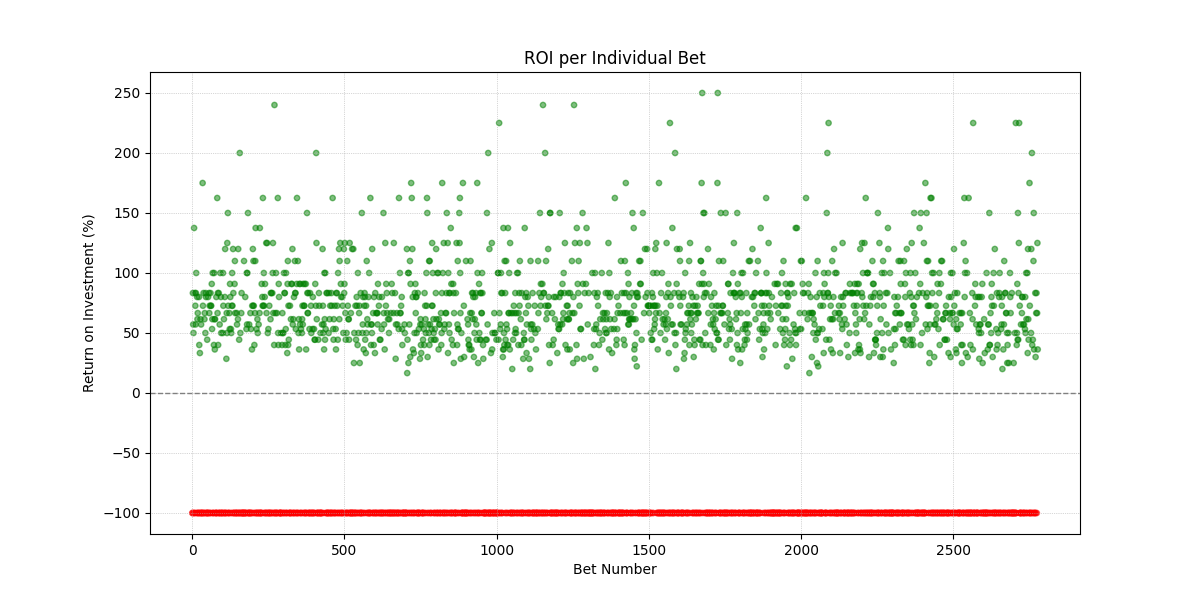
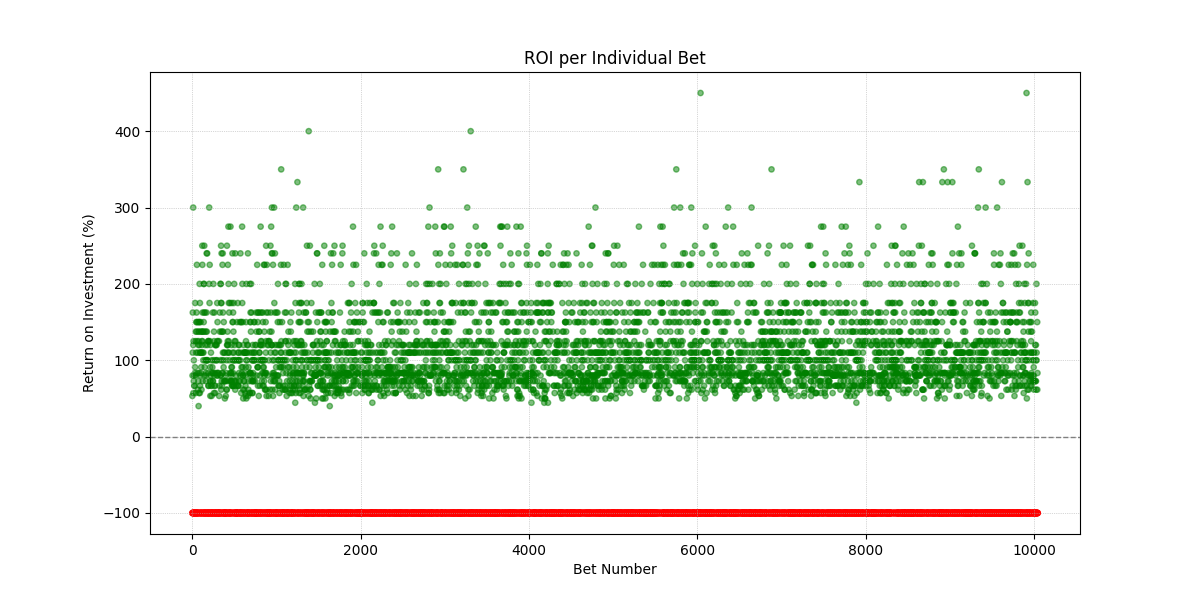
4x data expansion: ROI improved from -7.13% to -3.02%
- Used V8.0's larger data files (97K matches + 14.5M odds records)
- Pipeline now processes 60,777 usable matches (was 10,983)
- Test set expanded to 16,524 matches (was 3,295)
- Max drawdown reduced from 97.58% to 77.05%
- Added feature correlation audit script

Changes:
- advanced_feature_engineering_v7.4.py: Point to local 97K match file
- merge_data_v7.4.py: Changed from append to write mode

🤖 Generated with [Claude Code](https://claude.com/claude-code)

diff --git a/FINAL_BUILD/feature_correlation_audit.py b/FINAL_BUILD/feature_correlation_audit.py
@@ -1,0 +1,141 @@
+"""
+Feature Correlation Audit for CPR Model v9.1
+
+Identifies highly correlated features (|r| > 0.7) that may be candidates for removal.
+This helps reduce filter bloat and potential multicollinearity issues.
+"""
+import pandas as pd
+import numpy as np
+
+# --- Configuration ---
+TRAINING_FILE = "training_dataset.csv"
+CORRELATION_THRESHOLD = 0.7
+
+# 19 GBM features from cpr_v7.4_specialist_gbm_trainer.py
+GBM_FEATURES = [
+    # Original features
+    'Time_Since_Last_Advantage', 'Matches_Last_24H_Advantage', 'Is_First_Match_Advantage',
+    'PDR_Slope_Advantage', 'H2H_P1_Win_Rate', 'H2H_Dominance_Score', 'PDR_Advantage',
+    'Win_Rate_Advantage', 'Win_Rate_L5_Advantage', 'Close_Set_Win_Rate_Advantage', 'Set_Comebacks_Advantage',
+    # New v7.4 features
+    'Elo_Diff',
+    'Glicko_Mu_Diff',
+    'Glicko_Phi_Sum',
+    'Clutch_Factor_Diff',
+    'Pythagorean_Delta_Diff',
+    'Fatigue_Factor_Diff',
+    'PDR_Variance_Diff',
+    'H2H_Matches',
+]
+
+def main():
+    print("--- Feature Correlation Audit v9.1 ---\n")
+
+    try:
+        df = pd.read_csv(TRAINING_FILE)
+        print(f"Loaded {len(df)} rows from {TRAINING_FILE}")
+    except FileNotFoundError:
+        print(f"Error: {TRAINING_FILE} not found. Run the pipeline first.")
+        return
+
+    # Filter to only existing GBM features
+    existing_features = [f for f in GBM_FEATURES if f in df.columns]
+    missing_features = [f for f in GBM_FEATURES if f not in df.columns]
+
+    if missing_features:
+        print(f"\nWarning: Missing features: {missing_features}")
+
+    print(f"\nAnalyzing {len(existing_features)} features...\n")
+
+    # Compute correlation matrix
+    corr_matrix = df[existing_features].corr()
+
+    # Identify highly correlated pairs
+    high_corr_pairs = []
+    for i, col1 in enumerate(existing_features):
+        for j, col2 in enumerate(existing_features):
+            if i < j:  # Only check upper triangle
+                corr = corr_matrix.loc[col1, col2]
+                if abs(corr) > CORRELATION_THRESHOLD:
+                    high_corr_pairs.append((col1, col2, corr))
+
+    # Sort by absolute correlation
+    high_corr_pairs.sort(key=lambda x: abs(x[2]), reverse=True)
+
+    # Print results
+    print(f"=== Highly Correlated Feature Pairs (|r| > {CORRELATION_THRESHOLD}) ===\n")
+
+    if not high_corr_pairs:
+        print("No highly correlated feature pairs found.")
+    else:
+        print(f"{'Feature 1':<35} {'Feature 2':<35} {'Correlation':>12}")
+        print("-" * 85)
+        for col1, col2, corr in high_corr_pairs:
+            print(f"{col1:<35} {col2:<35} {corr:>12.4f}")
+
+    print(f"\n=== Correlation Summary Statistics ===\n")
+
+    # Get all pairwise correlations (excluding diagonal)
+    mask = np.triu(np.ones_like(corr_matrix, dtype=bool), k=1)
+    all_corrs = corr_matrix.where(mask).stack()
+
+    print(f"Mean absolute correlation: {all_corrs.abs().mean():.4f}")
+    print(f"Max absolute correlation:  {all_corrs.abs().max():.4f}")
+    print(f"Pairs with |r| > 0.5:      {(all_corrs.abs() > 0.5).sum()}")
+    print(f"Pairs with |r| > 0.7:      {(all_corrs.abs() > 0.7).sum()}")
+    print(f"Pairs with |r| > 0.9:      {(all_corrs.abs() > 0.9).sum()}")
+
+    # Feature variance check (near-constant features)
+    print(f"\n=== Feature Variance Check (potential near-constant features) ===\n")
+    variances = df[existing_features].var()
+    low_var_features = variances[variances < 0.001].sort_values()
+
+    if len(low_var_features) > 0:
+        print(f"{'Feature':<40} {'Variance':>12}")
+        print("-" * 55)
+        for feat, var in low_var_features.items():
+            print(f"{feat:<40} {var:>12.6f}")
+    else:
+        print("No low-variance features found.")
+
+    # Recommendations
+    print(f"\n=== Recommendations ===\n")
+
+    candidates_for_removal = set()
+
+    # From correlation pairs, recommend removing one from each pair
+    for col1, col2, corr in high_corr_pairs:
+        # Prefer keeping the simpler/more interpretable feature
+        if 'Elo' in col1 and 'Glicko' in col2:
+            candidates_for_removal.add(col1)  # Keep Glicko over Elo
+            print(f"- Consider removing {col1} (r={corr:.4f} with {col2})")
+        elif 'Elo' in col2 and 'Glicko' in col1:
+            candidates_for_removal.add(col2)
+            print(f"- Consider removing {col2} (r={corr:.4f} with {col1})")
+        elif 'Variance' in col1:
+            candidates_for_removal.add(col1)
+            print(f"- Consider removing {col1} (r={corr:.4f} with {col2})")
+        elif 'Variance' in col2:
+            candidates_for_removal.add(col2)
+            print(f"- Consider removing {col2} (r={corr:.4f} with {col1})")
+        else:
+            print(f"- High correlation: {col1} <-> {col2} (r={corr:.4f})")
+
+    # Add low-variance features
+    for feat in low_var_features.index:
+        if feat not in candidates_for_removal:
+            candidates_for_removal.add(feat)
+            print(f"- Consider removing {feat} (low variance: {low_var_features[feat]:.6f})")
+
+    if candidates_for_removal:
+        print(f"\nTotal features recommended for removal: {len(candidates_for_removal)}")
+        print(f"Candidates: {sorted(candidates_for_removal)}")
+    else:
+        print("\nNo features recommended for removal.")
+
+    # Save correlation matrix to CSV
+    corr_matrix.to_csv('feature_correlation_matrix.csv')
+    print(f"\nCorrelation matrix saved to 'feature_correlation_matrix.csv'")
+
+if __name__ == "__main__":
+    main()

diff --git a/FINAL_BUILD/merge_data_v7.4.py b/FINAL_BUILD/merge_data_v7.4.py
@@ -58,16 +58,12 @@ try:
     print(f"Final merged dataset contains {len(df_final)} matches.")
 
     # --- 5. Save the Final Dataset ---
-    # Check if the output file already exists to decide whether to write headers
-    file_exists = os.path.exists(OUTPUT_FILE)
-
-    print(f"\nAppending data to '{OUTPUT_FILE}'...")
+    print(f"\nSaving data to '{OUTPUT_FILE}'...")
 
     df_final.to_csv(
         OUTPUT_FILE,
-        mode='a',          # 'a' stands for append
-        index=False,
-        header=not file_exists # Only write header if the file does NOT exist
+        mode='w',          # Overwrite mode (was 'a' for append)
+        index=False
     )
 
     print(f"\n[SUCCESS] Data successfully appended to the final dataset!")

diff --git a/FINAL_BUILD/advanced_feature_engineering_v7.4.py b/FINAL_BUILD/advanced_feature_engineering_v7.4.py
@@ -296,7 +296,7 @@ def glicko2_update(player_mu, player_phi, player_sigma,
 
 
 # --- 1. Configuration ---
-RAW_STATS_FILE = "../../czech_liga_pro_advanced_stats_FIXED.csv"
+RAW_STATS_FILE = "czech_liga_pro_advanced_stats_FIXED.csv"  # Use local 97K match file from V8.0
 OUTPUT_FILE = "final_engineered_features_v7.4.csv" # New, corrected output file
 ROLLING_WINDOW = 20
 SHORT_ROLLING_WINDOW = 5
